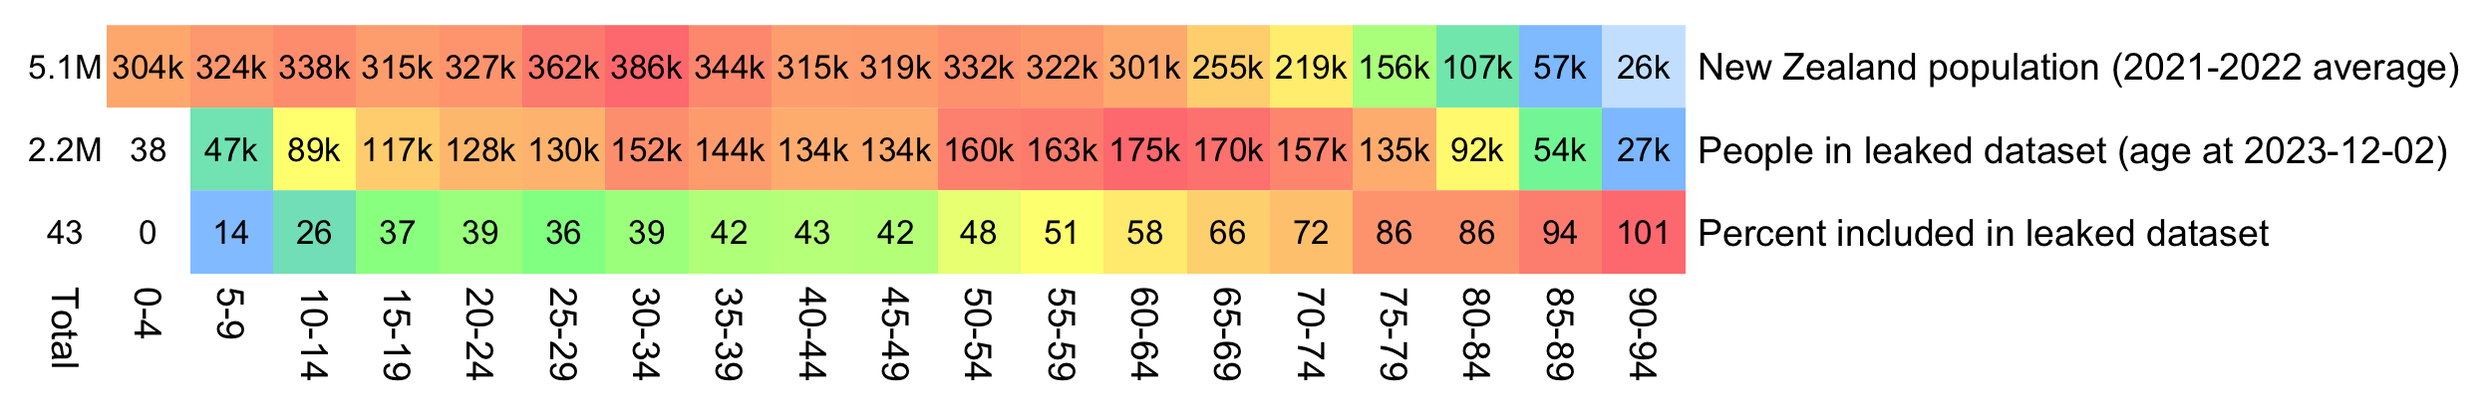
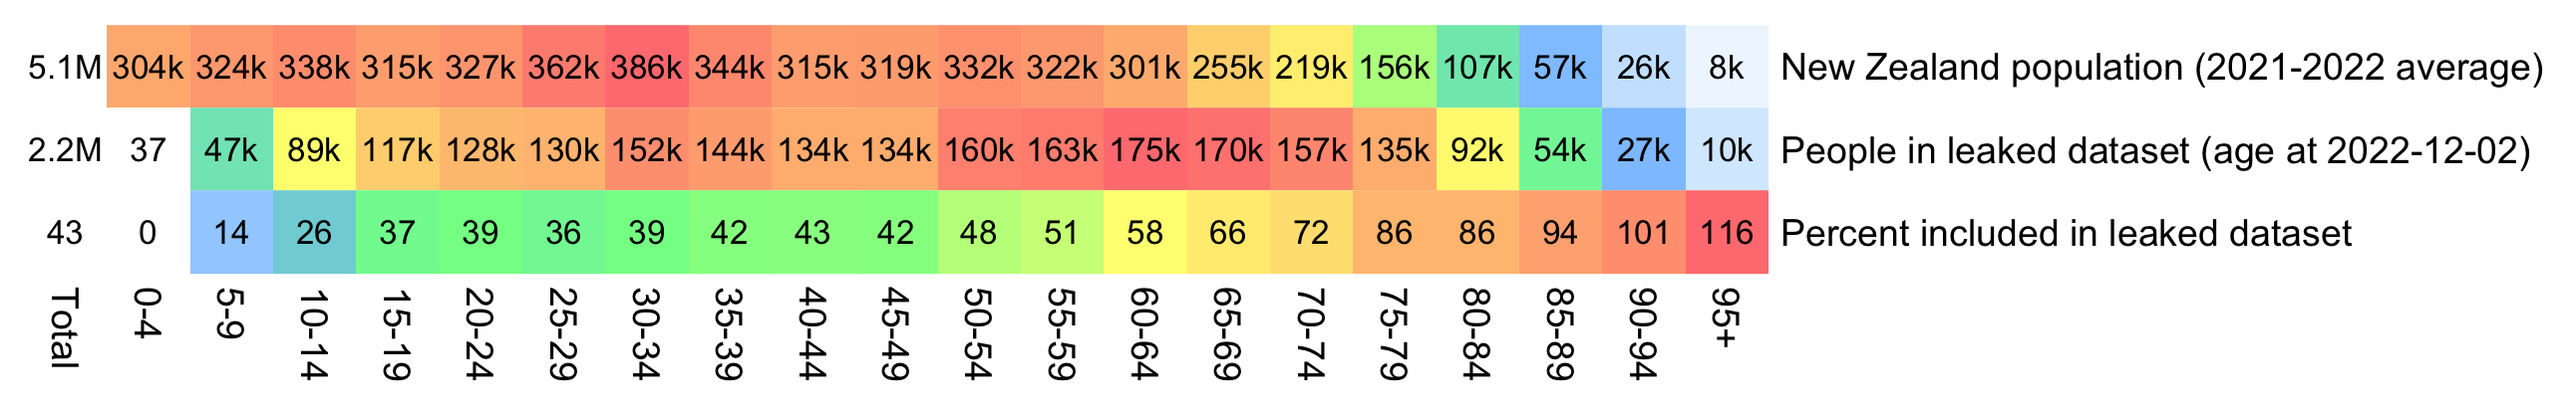
a

Changed region(s): [[0.0, 0.0624, 0.9984, 0.9353]]

diff --git a/moar.html b/moar.html
@@ -114,6 +114,7 @@ th{background:#eee;text-align:left;font-weight:bold}
 <li><a href=#Does_the_aging_of_a_fixed_cohort_cause_deaths_over_time_to_go_up_or_down>Does the aging of a fixed cohort cause deaths over time to go up or down?</a></li>
 <li><a href=#What_is_the_baseline_mortality_for_vaccinated_people>What is the baseline mortality for vaccinated people?</a></li>
 <li><a href=#Tweet_by_Thinking_Slow_about_OECD_mortality_statistics>Tweet by Thinking Slow about OECD mortality statistics</a></li>
+<li><a href=#Excess_mortality_by_age_group_relative_to_reported_mortality>Excess mortality by age group relative to reported mortality</a></li>
 </ul></li>
 </ul>
 
@@ -129,6 +130,10 @@ printf %s\\n &#39;[kirsch]&#39; type=s3 provider=Other access_key_id=g42m54xwZS8
 rclone sync kirsch:/data-transparency data-transparency</pre>
 <p>You can also download the data with Cyberduck: <a href="https://cyberduck.io">https://cyberduck.io</a>. Click <span class="quote">&quot;Open Connection&quot;</span>, set the service type to Amazon S3, set the server to <code>kirsch.izt.world</code>, set <span class="quote">&quot;Access Key ID&quot;</span> to <code>g42m54xwZS80yQpAO20Q</code>, set <span class="quote">&quot;Secret Access Key&quot;</span> to <code>Kq77gLL47mbypnnRc0UP7sPTvrvjn6y0D5FSEK5H</code>, and click <span class="quote">&quot;Connect&quot;</span>.</p>
 <p>There's also mirrors for old versions of the data here: <a href="https://getdatatransparency.com">https://getdatatransparency.com</a>, <a href="http://www.oretek.com/vsrf/">http://www.oretek.com/vsrf/</a>, <a href="http://139.99.134.188/nz/index.htm">http://139.99.134.188/nz/index.htm</a>. However many files have been added or changed since the mirrors were posted.</p>
+<p>Kirsch got someone to write a Python script for him which took the NZ data as input and calculated the number of deaths and person-days grouped by different categories. Kirsch's S3 server includes several files generated by the script, but I uploaded the file I have used the most here: <a href=f/month_dose_week_single_age.txt>f/month_dose_week_single_age.txt</a>. It shows the data grouped by calendar month, dose number, weeks since vaccination, and single-year age:</p>
+<pre>$ curl https://mongol-fi.github.io/f/month_dose_week_single_age.txt|sed 2q|column -t
+month    dose  week  age  alive  dead
+2021-01  0     0     1    248    0</pre>
 <h3>
 <a href=#Background id=Background>Background</a>
 </h3>
@@ -170,7 +175,7 @@ rclone sync kirsch:/data-transparency data-transparency</pre>
 </blockquote>
 <p>I don't understand how it's possible to randomize all fields while simultaneously keeping the statistics intact like Kirsch wrote, because you would have to sacrifice some fidelity in the statistics even if you only randomized a single field.</p>
 <p>When Kirsch did a presentation about the data at MIT, he said: <span class="quote">&quot;You get the original data - which we have obfuscated so we don't get into trouble - it's all HIPAA-compliant - but we preserved all of the fidelity of the data so that we have shifted things such that the statistics are identical even though no record matches anything about any of the people given.&quot;</span> [<a href="https://rumble.com/v3yovx4-vsrf-live-104-exclusive-mit-speech-by-steve-kirsch.html">https://rumble.com/v3yovx4-vsrf-live-104-exclusive-mit-speech-by-steve-kirsch.html</a>, time 52:00] But how can the statistics be identical to the real data if <span class="quote">&quot;no record matches anything about any of the people given&quot;</span>?</p>
-<p>During an interview on InfoWars, Kirsch said: <span class="quote">&quot;We have the original data. It's been anonymized so we don't run into any privacy issues or HIPAA violations. But it's been anonymized in a way that we maintain the statistical fidelity of the data. In other words we time-shifted all of the dates relative to each other, but the dates relative to each other are the same. We just shifted them slightly in time so that you can still do the statistical analysis without violating anyone's privacy.&quot;</span> [<a href="https://banned.video/watch?id=656a5c4e0681e68064e50415">https://banned.video/watch?id=656a5c4e0681e68064e50415</a>, time 14:25] In a Substack post in February 2023 where Kirsch requested people to release record-level vaccination data, he provided instructions on how to format the data which matched the format of the CSV file for Barry Young's data, and Kirsch also wrote: <span class="quote">&quot;Before publicly releasing the records, you obfuscate them using a method that is deterministic on a per record basis so that all the dates of a given person's records are consistently time shifted.&quot;</span> [<a href="https://kirschsubstack.com/p/a-worldwide-call-for-data-transparency">https://kirschsubstack.com/p/a-worldwide-call-for-data-transparency</a>] So I guess the way the data was obfuscated was that for each person in the dataset, the dates of the person were shifted by a random number of days backwards or forwards.</p>
+<p>During an interview on InfoWars, Kirsch said: <span class="quote">&quot;We have the original data. It's been anonymized so we don't run into any privacy issues or HIPAA violations. But it's been anonymized in a way that we maintain the statistical fidelity of the data. In other words we time-shifted all of the dates relative to each other, but the dates relative to each other are the same. We just shifted them slightly in time so that you can still do the statistical analysis without violating anyone's privacy.&quot;</span> [<a href="https://banned.video/watch?id=656a5c4e0681e68064e50415">https://banned.video/watch?id=656a5c4e0681e68064e50415</a>, time 14:25] In a Substack post in February 2023 where Kirsch requested people to release record-level vaccination data, he provided instructions on how to format the data which matched the format of the CSV file for the pay-per-dose data, and Kirsch also wrote: <span class="quote">&quot;Before publicly releasing the records, you obfuscate them using a method that is deterministic on a per record basis so that all the dates of a given person's records are consistently time shifted.&quot;</span> [<a href="https://kirschsubstack.com/p/a-worldwide-call-for-data-transparency">https://kirschsubstack.com/p/a-worldwide-call-for-data-transparency</a>] So I guess the way the data was obfuscated was that for each person in the dataset, the dates of the person were shifted by a random number of days backwards or forwards.</p>
 <p>Kirsch said that each record contained auditing information which confirmed the authenticity of the data: <span class="quote">&quot;Anyone who claims the NZ data is fraudulent is trying to gaslight you. I've spent weeks analyzing the data. It's not fraudulent. The NZMH has NEVER said it was fraudulent. You don't get arrested for exposing data that is not real. There is auditing information on each record that confirms the authenticity of the data.&quot;</span> [<a href="https://x.com/stkirsch/status/1731228907490201848">https://x.com/stkirsch/status/1731228907490201848</a>]</p>
 <p>Barry Young's dataset includes data for about two and half years, because the earliest death is on 2021-05-09 and the last death is on 2023-10-27, and the earliest vaccination is on 2021-04-08 and the last vaccination is on 2023-10-20.</p>
 <h3>
@@ -182,12 +187,12 @@ mrn   batch_id   dose_number   date_time_of_service   date_of_death   vaccine_na
 1     1          2             07-24-2021                             Pfizer BioNTech COVID-19                             05-23-1951      72
 1     1          1             06-19-2021                             Pfizer BioNTech COVID-19                             05-23-1951      72
 1     104        5             05-07-2023                             Pfizer Comirnaty Original/Omicron BA.4-5 15/15 mcg   05-23-1951      72</pre>
-<p>So the column for the age probably corresponds to the age of the patient on a certain date. In order to reverse engineer which date it was, for each day in the years 2020 to 2025, I checked how many patients had an age which matched the date of birth. I got the highest number of matches for December 2nd 2023, the last date with non-zero matches was December 13th 2024, and the number of matches went linearly down to almost zero around November 30th 2022 when there's an inflection point, but after that it takes over a year until the number of matching dates goes to completely zero in May 2021. So basically the age column seems to correspond to the age around December 2st 2023, and the dates of birth seem to have been shifted by at most around 11 days backwards or forwards:</p>
+<p>So the column for the age probably corresponds to the age of the patient on a certain date. In order to reverse engineer which date it was, I went through each date in the years 2020 to 2025 and I checked how many patients had an age column which matched the date of birth column. I got the highest number of matches for December 2nd 2023, the last date with non-zero matches was December 13th 2024, and the number of matches goes linearly down to almost zero up to November 30th 2022 when there's an inflection point, but after that it takes over a year until the number of matching dates goes down to completely zero in May 2021. So basically the age column seems to correspond to the age around December 2st 2023, and the dates of birth seem to have been shifted by at most around 11 days backwards or forwards:</p>
 <div class="width6">
 <img src="i/moar-age-reverse-engineer.png">
 </div>
-<p>In an X Space where Kirsch was asked to describe the obfuscation procedure, he said: <span class="quote">&quot;The transformation is very unlikely to have shifted someone's data by over 30 days. It's very unlikely to have shifted someone's data by over 10 days.&quot;</span> [<a href="https://twitter.com/stkirsch/status/1733531453978489209">https://twitter.com/stkirsch/status/1733531453978489209</a>, time 19:31] So maybe the number of days is selected using a random variable with a normal distribution, so the maximum number of days can be even higher than 11.</p>
-<p>Later Kirsch added a file which explained the obfuscation algorithm to his S3 server:</p>
+<p>In an X Space where Kirsch was asked to describe the obfuscation procedure, he said: <span class="quote">&quot;The transformation is very unlikely to have shifted someone's data by over 30 days. It's very unlikely to have shifted someone's data by over 10 days.&quot;</span> [<a href="https://twitter.com/stkirsch/status/1733531453978489209">https://twitter.com/stkirsch/status/1733531453978489209</a>, time 19:31] So I thought that maybe the number of days is selected using a random variable with a normal distribution, so the maximum number of days can be even higher than 11.</p>
+<p>Later my suspicion was confirmed because Kirsch added a file to his S3 server which explained the obfuscation method:</p>
 <pre>$ cat data-transparency/Code/time-series\ analysis/obfuscation_algorithm.txt
 &quot;For each person, a non-zero date offset was chosen from a gaussian distribution with sigma=7
 and all of the dates for that record were offset for that same amount,
@@ -206,7 +211,7 @@ Note:
 The &quot;Age&quot; field was inserted as a convenience item for use in Excel.
 
 Anyone doing serious work on the data should always use the date of birth to compute the exact age at the time of the record.</pre>
-<p>Kirsch's description says that a random number was chosen <span class="quote">&quot;for each person&quot;</span>, but it's not clear if different randoms number may have been used in different lines for the same person. However as evidence that all the lines of a person were shifted by the same amount of days, a website about COVID vaccinations in New Zealand said about the Pfizer vaccine that <span class="quote">&quot;You need 2 doses. The standard gap between doses is 3 weeks or more.&quot;</span> [<a href="https://covid19.govt.nz/covid-19-vaccines/covid-19-vaccine-facts-and-advice/covid-19-vaccines-used-in-new-zealand/">https://covid19.govt.nz/covid-19-vaccines/covid-19-vaccine-facts-and-advice/covid-19-vaccines-used-in-new-zealand/</a>] And in Kirsch's CSV file the most common gap between the first and second doses is 21 days:</p>
+<p>Kirsch's description says that a random number was chosen <span class="quote">&quot;for each person&quot;</span>, but it's not clear if different randoms number may have been used in different lines for the same person. However as evidence that all the lines of a person were shifted by the same amount of days, a website about COVID vaccinations in New Zealand said that the standard gap between the first two Pfizer vaccines was 3 weeks or more. [<a href="https://covid19.govt.nz/covid-19-vaccines/covid-19-vaccine-facts-and-advice/covid-19-vaccines-used-in-new-zealand/">https://covid19.govt.nz/covid-19-vaccines/covid-19-vaccine-facts-and-advice/covid-19-vaccines-used-in-new-zealand/</a>] And in Kirsch's CSV file the most common gap between the first and second doses is 21 days:</p>
 <pre>&gt; t=as.data.frame(data.table::fread(&quot;nz-record-level-data-4M-records.csv&quot;))
 &gt; for(i in grep(&quot;date&quot;,colnames(t)))t[,i]=as.Date(t[,i],&quot;%m-%d-%Y&quot;)
 &gt; me=t[t$dose_number==1,c(1,4)]|&gt;merge(t[t$dose_number==2,c(1,4)],by=1)
@@ -231,38 +236,38 @@ Anyone doing serious work on the data should always use the date of birth to com
 <div class="width9">
 <img src="i/moar-eagle.jpg">
 </div>
-<p>However WelcomeTheEagle got the age of each person from the value of the age column, which is the age on approximately December 2nd or 1st 2023, which can be up to three years higher than the age of people at the beginning of the dataset in 2021.</p>
-<p>The average vaccination date included in the dataset is on 2022-03-14, so when I calculated the age of each person on that date instead, I only got about 73% people included in the age group 90-94:</p>
+<p>However WelcomeTheEagle got the age of each person from the value of the age column, which is the age on December 2nd 2023 (or possibly December 1st), which can be up to three years higher than the age of people at the beginning of the dataset in 2021.</p>
+<p>The average date of vaccination in the dataset is on March 14th 2022, so when I calculated the age of each person on that date instead, I only got about 73% people included in the age group 90-94:</p>
 <div class="width9">
 <img src="i/moar-age-representation.png">
 </div>
-<p>But when I calculated the age on 2023-12-02, I got over 100% people included in the age groups 90-94 and 95+:</p>
+<p>But when I calculated the age on December 2nd 2023, I got over 100% people included in the age groups 90-94 and 95+:</p>
 <div class="width9">
 <img src="i/moar-age-representation-2.png">
 </div>
-<p>An even more accurate way to calculate the age composition would be to calculate the total person-years within each age group, and then divide it by the ratio between total person-years and total people (which is about 1.7):</p>
+<p>An even more accurate way to calculate the age composition might be to calculate the total person-years within each age group, and to then divide it by the ratio between total person-years and total people (which is about 1.7):</p>
 <div class="width9">
 <img src="i/moar-age-representation-3.png">
 </div>
 <pre>pop=tail(read.csv(&quot;https://mongol-fi.github.io/f/nz_infoshare_population.csv&quot;),2)[,-1]|&gt;colMeans()
-
 m=data.frame(&#39;New Zealand population (2021-2022 average)&#39;=tapply(pop,0:95%/%5*5,sum),check.names=F)
 rownames(m)=paste0(seq(0,94,5),&quot;-&quot;,seq(4,94,5))|&gt;c(&quot;95+&quot;)
 
 t=as.data.frame(data.table::fread(&quot;nz-record-level-data-4M-records.csv&quot;))
 for(i in grep(&quot;date&quot;,colnames(t)))t[,i]=as.Date(t[,i],&quot;%m-%d-%Y&quot;)
-meandate=mean(t$date_time_of_service)
-meandate=as.Date(&quot;2023-12-2&quot;)
-birth=t$date_of_birth[!duplicated(t$mrn)]
-yeardiff=\(x,y)as.numeric(substring(x,1,4))-as.numeric(substring(y,1,4))-as.integer(substring(x,6,12)&lt;substring(y,6,12))
-age=table(pmax(0,pmin(yeardiff(meandate,birth),95)%/%5*5))
 
-t=t[order(t$date_time_of_service),]
-t=t[!duplicated(t$mrn),]
+# meandate=mean(t$date_time_of_service)
+# # meandate=as.Date(&quot;2023-12-2&quot;)
+# birth=t$date_of_birth[!duplicated(t$mrn)]
+# yeardiff=\(x,y){x=as.POSIXlt(x);y=as.POSIXlt(y);x$year-y$year-pmax(x$mon&lt;y$mon,x$mon==y$mon&amp;x$mday&lt;y$mday)}
+# age=table(pmax(0,pmin(yeardiff(meandate,birth),95)%/%5*5))
+# m=cbind(m,&quot;People in leaked dataset (age at 2022-12-02)&quot;=c(age))
+# total=colSums(m)
+# m=cbind(m,&quot;Percent included in leaked dataset&quot;=m[,2]/m[,1]*100)
+
+t=t[order(t$date_time_of_service),];t=t[!duplicated(t$mrn),]
 meandays=mean(as.numeric(pmin(t$date_of_death,max(t$date_of_death,na.rm=T),na.rm=T)-t$date_time_of_service))
-
-buck=read.table(&quot;https://mongol-fi.github.io/f/month_dose_week_single_age.txt&quot;,header=T)
-buck=buck[buck$dose!=0,]
+buck=read.table(&quot;https://mongol-fi.github.io/f/month_dose_week_single_age.txt&quot;,header=T)|&gt;subset(dose&gt;0)
 age=tapply(buck$alive,pmin(95,buck$age)%/%5*5,sum)/meandays
 
 m[[paste0(&quot;People in leaked dataset (based on person-days)&quot;)]]=age
@@ -273,26 +278,39 @@ sum=colSums(m)
 disp=rbind(paste0(round(sum[1:2]/1e6,1),&quot;M&quot;)|&gt;c(round(sum[2]/sum[1]*100)),disp)
 m=rbind(Total=0,apply(m,2,\(x)x/max(x)))
 
-pheatmap::pheatmap(
-  t(m),
-  filename=&quot;1.png&quot;,
-  cluster_rows=F,
-  cluster_cols=F,
-  legend=F,
-  cellwidth=20,
-  cellheight=20,
-  fontsize=9,
-  border_color=NA,
-  display_numbers=t(disp),
-  fontsize_number=8,
-  number_color=&quot;black&quot;,
+pheatmap::pheatmap(t(m),filename=&quot;1.png&quot;,display_numbers=t(disp),
+  cluster_rows=F,cluster_cols=F,legend=F,cellwidth=20,cellheight=20,fontsize=9,fontsize_number=8,border_color=NA,number_color=&quot;black&quot;,
   breaks=seq(0,1,,256),
-  colorRampPalette(colorspace::hex(colorspace::HSV(c(210,210,130,60,40,20,0),c(0,.5,.5,.5,.5,.5,.5),1)))(256)
-)</pre>
+  colorRampPalette(colorspace::hex(colorspace::HSV(c(210,210,130,60,40,20,0),c(0,.5,.5,.5,.5,.5,.5),1)))(256))</pre>
 <p>In the old age groups which account for most deaths, there's a decreasing trend in crude mortality rate in New Zealand:</p>
 <div class="width5">
 <img src="i/moar-cmr-demo.png">
 </div>
+<pre>pop=read.csv(&quot;https://mongol-fi.github.io/f/nz_infoshare_population.csv&quot;)|&gt;subset(year&gt;=2010)
+death=read.csv(&quot;https://mongol-fi.github.io/f/nz_infoshare_deaths.csv&quot;)|&gt;subset(year&gt;=2010)
+death=cbind(death[,1:96,],rowSums(death[,97:102]))
+
+d=data.frame(year=pop[,1],pop=unlist(pop[,-1]),death=unlist(death[,-1]),age=rep(0:95,each=nrow(pop)))
+a=aggregate(d[,2:3],list(year=d$year,age=d$age%/%10*10),sum)
+a$cmr=a$death/a$pop*1e5
+
+m=xtabs(cmr~age+year,a)
+
+rownames(m)=c(head(paste0(rownames(m),&quot;-&quot;,as.numeric(rownames(m))+9),-1),&quot;90+&quot;)
+
+kimi=\(x){e=floor(log10(ifelse(x==0,1,abs(x))));e2=pmax(e,0)%/%3+1;x[]=ifelse(abs(x)&lt;1,x,paste0(round(x/1e3^(e2-1),ifelse(e%%3==0,1,0)),c(&quot;&quot;,&quot;k&quot;,&quot;M&quot;,&quot;B&quot;,&quot;T&quot;)[e2]));x}
+disp=kimi(m)
+
+m=t(apply(m,1,\(i)i/max(i)))
+
+pheatmap::pheatmap(m,filename=&quot;0.png&quot;,display_numbers=disp,
+  cluster_rows=F,cluster_cols=F,legend=F,cellwidth=21,cellheight=21,fontsize=9,fontsize_number=8,border_color=NA,na_col=&quot;white&quot;,
+  number_color=ifelse(m&gt;.8*max(m,na.rm=T),&quot;white&quot;,&quot;black&quot;),
+  breaks=seq(0,max(m,na.rm=T),,256),
+  colorRampPalette(colorspace::hex(colorspace::HSV(c(210,210,210,130,60,30,0,0,0),c(0,.25,rep(.5,7)),c(rep(1,7),.5,0))))(256))
+
+system(&quot;mogrify -trim 0.png;convert 0.png -bordercolor white -gravity northwest -splice x14 -size `identify -format %w 0.png`x -pointsize 48 caption:&#39;Deaths per 100k person-years in New Zealand&#39; +swap -append -trim -border 24 +repage 1.png&quot;)
+system(&quot;qlmanage -p 1.png&amp;&gt;/dev/null&quot;)</pre>
 <h3>
 <a href=#Anomalies_in_the_CSV_file id=Anomalies_in_the_CSV_file>Anomalies in the CSV file</a>
 </h3>
@@ -1677,6 +1695,7 @@ ggsave(&quot;1.png&quot;,width=5.8,height=4.5)</pre>
 <div class="width5">
 <img src="i/moar-kirsch-excess.jpg">
 </div>
+<p>(When I calculated plot <span class="quote">&quot;2020 age table&quot;</span>. [<a href="https://www.mortality.watch/about">https://www.mortality.watch/about</a>])</p>
 <p>Kirsch substituted the period from October 2022 to September 2023 for the year 2023, but you can tell that he used regular years for the other years because his number of deaths in 2021 and 2022 is identical to figures published by the New Zealand government. However when Kirsch calculated the total excess mortality in 2021-2023, he counted the period from October to December 2022 twice, and it happened to be a period with fairly high excess mortality. So to avoid counting the period twice, I used years that ended in September for each year in my analysis below.</p>
 <p>Another flaw in Kirsch's analysis is that he used the average number of deaths in 2017-2019 as the baseline, which exaggerates excess mortality because New Zealand has an increasing trend in the number of deaths per year. When I used the linear trend in 2012-2019 as the baseline instead, and I used years that started in October and ended in September for each year, I got only about 2,600 excess deaths from October 2020 to September 2023:</p>
 <pre>&gt; t=read.csv(&quot;https://www.mortality.org/File/GetDocument/Public/STMF/Outputs/NZL_NPstmfout.csv&quot;)
@@ -2357,6 +2376,7 @@ system(&quot;mogrify -shave 0x17 i[12].png;montage -geometry +0+0 -tile 1x i[12]
 <div class="width6">
 <img src="i/moar-uncle-0.png">
 </div>
+<p>(In the plot above the ASMR in the pay-per dose data is above the baseline during a few months in 2022 and 2023, but the ASMR figures I got were only above the baseline in May 2021. It might be because Mortality Watch uses 2020 population numbers but I used quarterly population numbers intepolated to monthly numbers. [<a href="https://www.mortality.watch/about">https://www.mortality.watch/about</a>])</p>
 <p>Uncle John Returns also made age-standardized plots for mortality per weeks after vaccination: [<a href="https://twitter.com/UncleJo46902375/status/1732770174896329107">https://twitter.com/UncleJo46902375/status/1732770174896329107</a>]</p>
 <blockquote>
 <p>↙ Kirsch's all-age mash-up</p>
@@ -3562,12 +3582,12 @@ system(&quot;montage -geometry +0+0 -tile 2x [12]..png 1.png&quot;)</pre>
 <div class="width6">
 <img src="i/moar-connecticut-2.png">
 </div>
-<p>When I used June 2021 instead of March as the cutoff for the last date of vaccination, then in the first months after June there's no clear depression in mortality in vaccinated people, but it's probably because few people got their first vaccine in July 2021 (or at least few people who died later, who were mostly elderly):</p>
+<p>When I used June 2021 instead of March as the cutoff for the last date of vaccination, then vaccinated people no longer have any clear depression in mortality in the months following the cutoff date, but it's probably because few people got their first vaccine in July or August 2021 (or at least few people who died later, who were mostly elderly):</p>
 <div class="width6">
 <img src="i/moar-connecticut-3.png">
 </div>
 <p>In many southern states there was a large spike in COVID deaths around August to September 2021, but the spike remained so small in Connecticut that it's not clearly visible in the plots above.</p>
-<p>But anyway, the Connecticut data seems to show that the ratio between unvaccinated and vaccinated mortality was higher during COVID waves, like how the Maldives data showed that unvaccinated people had about 2.1 times higher mortality than vaccinated people May 2021, which was the month when COVID deaths peaked, but during other months the ratio was close to one.</p>
+<p>But anyway, the Connecticut data seems to show that the ratio between unvaccinated and vaccinated mortality was higher during COVID waves, like how the Maldives data showed that unvaccinated people had about 2.1 times higher mortality than vaccinated people in May 2021 when COVID deaths peaked, but during other months the ratio was close to 1.0.</p>
 <pre>library(tidyverse)
 
 ct=read.csv(&quot;https://mongol-fi.github.io/f/kirsch_medicare_connecticut.csv&quot;)
@@ -3708,14 +3728,82 @@ system(&quot;qlmanage -p 1.png&amp;&gt;/dev/null&quot;)</pre>
 <a href=#Tweet_by_Thinking_Slow_about_OECD_mortality_statistics id=Tweet_by_Thinking_Slow_about_OECD_mortality_statistics>Tweet by Thinking Slow about OECD mortality statistics</a>
 </h3>
 <p>Thinking Slow posted this tweet: [<a href="https://twitter.com/ThinkingSlow1/status/1740830354255053061">https://twitter.com/ThinkingSlow1/status/1740830354255053061</a>]</p>
-<div class="width5">
+<div class="width6">
 <img src="i/moar-oecd-1.jpg">
 </div>
-<p>However on the page on OECD's website where the data was from, there's a link to a methodology PDF which says that they used a 2015-2019 average baseline: <span class="quote">&quot;The calculation of weekly excess deaths contained follows a simple and easily interpretable calculation comparing the number of deaths recorded for a week against the expected number of deaths over the same week. The percentage change from the <em>expected</em> value (the P-score) is generally deemed <span class="quote">'transparent and comparable'</span> (Aron et al., 2020). The expected number of deaths is based on the average number of deaths for the same week over recent years (in this case the previous five years, 2015-19). This baseline could be considered a lower estimate of the expected number of deaths since both population growth and an ageing population would be expected to push up the number of deaths observed each year. For example, New Zealand saw its population grow by around 9% since 2015, with the number of people aged 65 and over increasing by 18%.&quot;</span> [<a href="https://stats.oecd.org/index.aspx?queryid=104676">https://stats.oecd.org/index.aspx?queryid=104676</a>, <a href="https://stats.oecd.org/fileview2.aspx?IDFile=97aacc20-eac4-4e44-8f59-9fb5b7e25090">https://stats.oecd.org/fileview2.aspx?IDFile=97aacc20-eac4-4e44-8f59-9fb5b7e25090</a>]</p>
-<p>An OECD report about excess mortality includes the plot below, where the dark blue bars show excess mortality based on a 2015-2019 average baseline with a different baseline for each week, and the light-blue bars show excess mortality adjusted for changes in population size in broad age groups, and the report says: <span class="quote">&quot;When adjusted, nine OECD countries reported fewer deaths during this period than might have been expected, with estimates indicating New Zealand had around 4.4% fewer deaths over the three-year period than might have been expected if population structure and size had remained constant between 2015 and 2022.&quot;</span> [<a href="https://one.oecd.org/document/DELSA/HEA/WD/HWP%282023%2915/en/pdf">https://one.oecd.org/document/DELSA/HEA/WD/HWP%282023%2915/en/pdf</a>] (The first paragraph in the image below erroneously said that the light blue bars are unadjusted.)</p>
+<p>However on the page on OECD's website where the data was from, there's a link to a methodology PDF which says that they used a 2015-2019 average baseline: <span class="quote">&quot;The expected number of deaths is based on the average number of deaths for the same week over recent years (in this case the previous five years, 2015-19). This baseline could be considered a lower estimate of the expected number of deaths since both population growth and an ageing population would be expected to push up the number of deaths observed each year. For example, New Zealand saw its population grow by around 9% since 2015, with the number of people aged 65 and over increasing by 18%.&quot;</span> [<a href="https://stats.oecd.org/index.aspx?queryid=104676">https://stats.oecd.org/index.aspx?queryid=104676</a>, <a href="https://stats.oecd.org/fileview2.aspx?IDFile=97aacc20-eac4-4e44-8f59-9fb5b7e25090">https://stats.oecd.org/fileview2.aspx?IDFile=97aacc20-eac4-4e44-8f59-9fb5b7e25090</a>]</p>
+<p>An OECD report about excess mortality includes the plot below, where the dark blue bars show excess mortality based on a 2015-2019 average baseline with a different baseline for each week, and the light-blue bars show excess mortality adjusted for changes in population size within three broad age groups. The report says: <span class="quote">&quot;When adjusted, nine OECD countries reported fewer deaths during this period than might have been expected, with estimates indicating New Zealand had around 4.4% fewer deaths over the three-year period than might have been expected if population structure and size had remained constant between 2015 and 2022.&quot;</span> [<a href="https://one.oecd.org/document/DELSA/HEA/WD/HWP%282023%2915/en/pdf">https://one.oecd.org/document/DELSA/HEA/WD/HWP%282023%2915/en/pdf</a>] (The first paragraph in the image below erroneously says that the light blue bars are unadjusted.)</p>
 <div class="width6">
 <img src="i/moar-oecd.png">
 </div>
+<h3>
+<a href=#Excess_mortality_by_age_group_relative_to_reported_mortality id=Excess_mortality_by_age_group_relative_to_reported_mortality>Excess mortality by age group relative to reported mortality</a>
+</h3>
+<p>In the heatmap below which shows the mortality rate in the pay-per dose data compared to the reported mortality rate among the whole NZ population, there's particularly low excess mortality in some of the oldest age groups in August 2022. It might be because the data for deaths I used was by registration date so COVID deaths which occurred in July may have been registered in August. New Zealand had a peak in the daily number of COVID deaths in late July and early August, and the total number of COVID deaths was similar in July and August.</p>
+<p>During the early months of the vaccine rollout, older age groups had greater negative excess mortality than younger age groups, which is yet another indication that the healthy vaccinee effect is stronger in older age groups than younger age groups. In the age groups 90-94 and 95+, the excess mortality in the first half of 2022 was still around -20% to -50%, and it took until 2023 before the excess mortality had returned back to around zero.</p>
+<p>On the last row where all ages are aggregated together in the heatmap below, the total excess mortality is positive on most months, but that's because vaccinated people are older than the general population, and the people included in the pay-per dose dataset are even older than average vaccinated people.</p>
+<div class="width0">
+<img src=i/moar-age-1.png height=600><img src=i/moar-age-2.png height=600>
+</div>
+<p>I got monthly number of deaths by age from here: <a href="https://www.stats.govt.nz/information-releases/births-and-deaths-year-ended-september-2023/">https://www.stats.govt.nz/information-releases/births-and-deaths-year-ended-september-2023/</a>. And I interpolated quarterly population figures from here to monthly figures: <a href="https://infoshare.stats.govt.nz">https://infoshare.stats.govt.nz</a>.</p>
+<pre>espage=c(0,1,5,10,15,20,25,30,35,40,45,50,55,60,65,70,75,80,85,90,95)
+agelab=c(0,paste0(espage,c(paste0(&quot;-&quot;,espage[-1]-1),&quot;+&quot;))[-1])
+
+death=read.csv(&quot;https://mongol-fi.github.io/f/nz_monthly_deaths_by_age.csv&quot;)|&gt;subset(ethnicity==&quot;Total&quot;)
+death=with(death,aggregate(count,list(year=year_reg,month=month_reg,age=setNames(agelab,sort(unique(age_group)))[age_group]),sum))
+pop=read.csv(&quot;https://mongol-fi.github.io/f/nz_infoshare_population_quarterly.csv&quot;,check.names=F,row.names=1)|&gt;tail(11)
+
+pop=t(rowsum(t(pop),cut(as.numeric(colnames(pop)),c(espage,Inf),,T,F)))
+library(tempdisagg);pop=apply(pop,2,\(i)as.numeric(predict(td(ts(i,frequency=4)~1,&quot;mean&quot;,to=&quot;monthly&quot;))))
+me=merge(death,data.frame(year=rep(2021:2023,each=12)[1:33],month=rep(1:12,3)[1:33],age=agelab[col(pop)],pop=c(pop)),all=T)
+monlen=c(31,28,31,30,31,30,31,31,30,31,30,31)
+me$pop=me$pop*monlen[me$month]
+
+buck=read.table(&quot;data-transparency/New Zealand/time-series summaries/month_dose_week_single_age.txt&quot;,header=T)
+## buck=read.table(&quot;https://mongol-fi.github.io/f/month_dose_week_single_age.txt&quot;,header=T)
+buck=subset(buck,dose&gt;0&amp;month&lt;=&quot;2023-09&quot;&amp;month&gt;=&quot;2021-05&quot;,)
+buck=aggregate(buck[,5:6],list(month=buck$month,age=agelab[cut(buck$age,c(espage,Inf),,T,F)]),sum,na.rm=T,drop=F)
+d=merge(cbind(month=sprintf(&quot;%d-%02d&quot;,me$year,me$month),me[,-(1:2)]),buck,all=T)
+d[is.na(d)]=0
+d=d[d$month&gt;=&quot;2021-05&quot;,]
+
+d$age=factor(d$age,agelab)
+d=rbind(d,cbind(aggregate(d[,3:6],d[,2,drop=F],sum,na.rm=T),month=&quot;Total&quot;))
+d=rbind(d,cbind(aggregate(d[,3:6],d[,1,drop=F],sum,na.rm=T),age=&quot;Total&quot;))
+d$age=droplevels(d$age)
+
+m=with(d,tapply(((dead/alive)/(x/pop)-1),list(age,month),c))
+m=t(apply(m,1,\(i){w=which(!is.na(i))[1];i[seq_along(i)&gt;w&amp;(is.na(i)|is.infinite(i))]=-1;i}))
+disp=ifelse(is.nan(m),&quot;NA&quot;,round(100*m))
+m=ifelse(m&lt;0,m/(1+m),m)
+maxcolor=2
+m[is.infinite(m)]=-maxcolor
+
+library(colorspace);pheatmap::pheatmap(m,filename=&quot;i1.png&quot;,display_numbers=disp,
+  cluster_rows=F,cluster_cols=F,legend=F,cellwidth=19,cellheight=19,fontsize=9,fontsize_number=8,border_color=NA,na_col=&quot;white&quot;,
+  number_color=ifelse((abs(m)&gt;.55*maxcolor)&amp;!is.na(m),&quot;white&quot;,&quot;black&quot;),
+  breaks=seq(-maxcolor,maxcolor,,256),
+  colorRampPalette(hex(HSV(c(210,210,210,210,0,0,0,0,0),c(1,.8,.6,.3,0,.3,.6,.8,1),c(.3,.65,1,1,1,1,1,.65,.3))))(256))
+
+mpop=with(d,tapply(alive/monlen[as.numeric(substr(month,6,7))],list(age,month),c))
+mpop[,ncol(mpop)]=mpop[,ncol(mpop)-1]
+exp2=.6
+mpop2=mpop^exp2
+mpop2[is.na(mpop2)]=0
+maxcolor2=max(mpop2[-nrow(m),-ncol(m)])
+
+kimi=\(x){e=floor(log10(ifelse(x==0,1,abs(x))));e2=pmax(e,0)%/%3+1;x[]=ifelse(abs(x)&lt;1e3,round(x),paste0(sprintf(paste0(&quot;%.&quot;,ifelse(e%%3==0,1,0),&quot;f&quot;),x/1e3^(e2-1)),c(&quot;&quot;,&quot;k&quot;,&quot;M&quot;,&quot;B&quot;,&quot;T&quot;)[e2]));x}
+disp2=mpop;disp2[is.na(disp2)]=0;disp2=kimi(disp2)
+
+pheatmap::pheatmap(mpop2,filename=&quot;i2.png&quot;,display_numbers=disp2,
+  cluster_rows=F,cluster_cols=F,legend=F,cellwidth=19,cellheight=19,fontsize=9,fontsize_number=8,border_color=NA,na_col=&quot;white&quot;,
+  number_color=ifelse(mpop2&gt;maxcolor2*.45,&quot;white&quot;,&quot;black&quot;),
+  breaks=seq(0,maxcolor2,,256),
+  sapply(seq(1,0,,256),\(i)rgb(i,i,i)))
+
+system(&quot;mogrify -trim i1.png;convert i1.png -gravity northwest -splice x12 -size `identify -format %w i1.png`x -pointsize 45 caption:&#39;NZ pay-per-dose data: Excess mortality percent by age relative to reported mortality rate in total NZ population&#39; +swap -append -trim -bordercolor white -border 24 +repage 1..png&quot;)
+system(&quot;mogrify -trim i2.png;convert i2.png -gravity northwest -splice x12 -size `identify -format %w i2.png`x -pointsize 45 caption:&#39;NZ pay-per-dose data: Population size by age&#39; +swap -append -trim -bordercolor white -border 24 +repage 2..png&quot;)
+system(&quot;montage -geometry +0+0 -tile 2x [12]..png 1.png&quot;)</pre>
 <script>
 let q=document.querySelectorAll('a,code,pre')
 for(let i=0;e=q[i];i++)e.innerHTML=e.innerHTML.replace(/(\w{60,})/g,x=>x.replace(/./g,"$&<wbr>")).replace(/([\041-\045\047-\057\072\075\077-\100\133-\137\173-\176])/g,"$1<wbr>")
